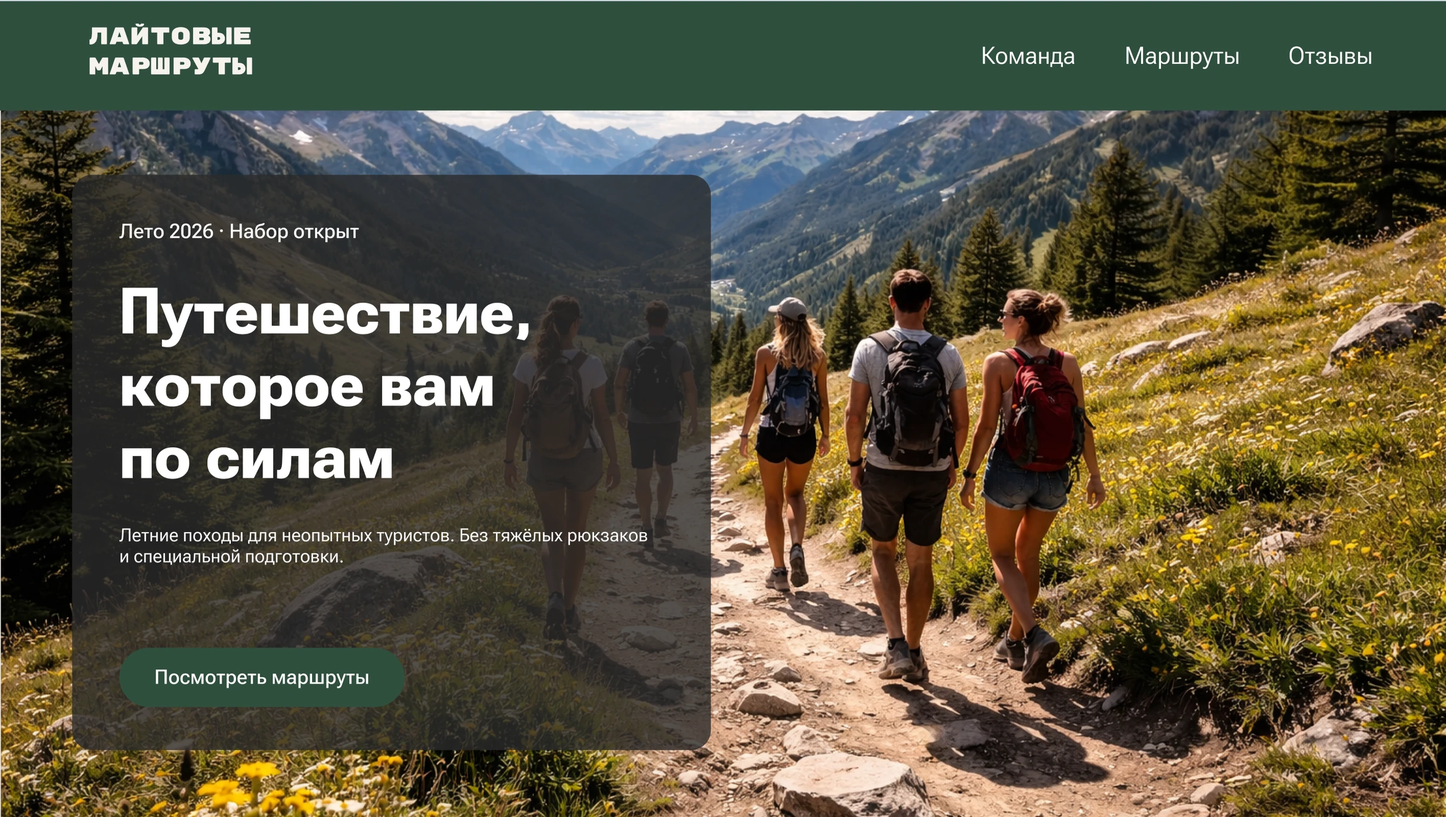
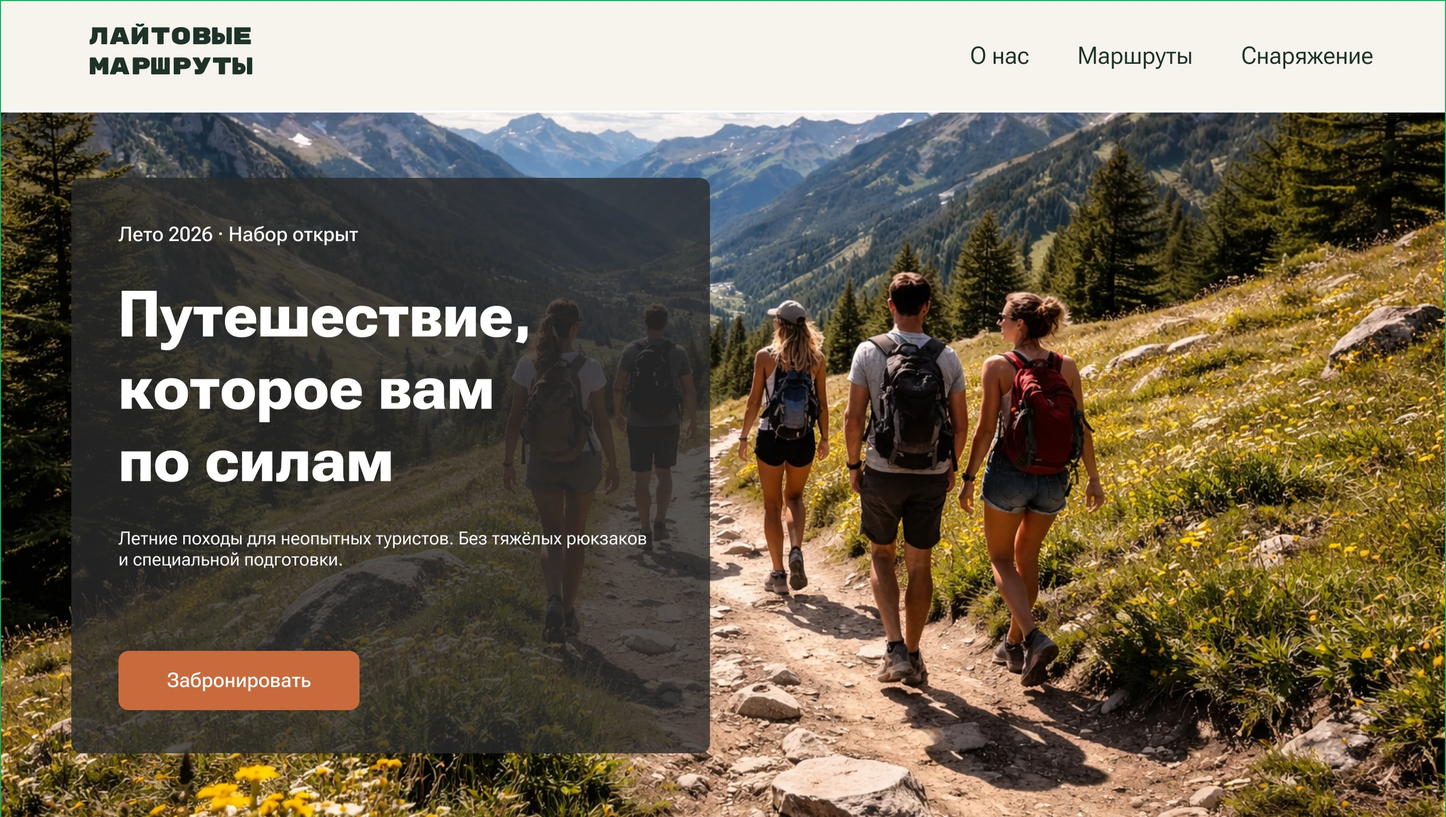
Лайтовые маршруты: изображения из актуального дизайна
Все экраны кейса, обложка и полный макет взяты из фрейма
«Главная страница. новая» (страница «Переделка», секция «Малинина Наталья»);
блок «Решения» и палитра приведены к этому дизайну.

diff --git a/case-routes.html b/case-routes.html
@@ -12,7 +12,7 @@
   <link rel="stylesheet" href="css/case.css">
   <style>
     body.case {
-      --brand: #2F4F3E;
+      --brand: #1E3227;
       --brand-ink: #F6F3EE;
       --brand-accent: #E08A5C;
       --accent: #C96A3D;
@@ -136,11 +136,11 @@
         <div>
           <span class="num-tag">01 · Первый экран</span>
           <h3 class="h-m">«Путешествие, которое вам по силам»</h3>
-          <p class="p">Заголовок сразу снимает главное возражение, подзаголовок уточняет: без тяжёлых рюкзаков и специальной подготовки. Кнопка «Посмотреть маршруты» ведёт к выбору, а не требует сразу бронировать.</p>
+          <p class="p">Заголовок сразу снимает главное возражение, подзаголовок уточняет: без тяжёлых рюкзаков и специальной подготовки.</p>
           <ul class="bullets">
             <li>Обычные люди на лёгкой тропе, а не альпинисты на вершине</li>
             <li>«Лето 2026 · Набор открыт» — мягкая срочность</li>
-            <li>Тёмно-зелёная шапка с якорями: Команда, Маршруты, Отзывы</li>
+            <li>Одна акцентная кнопка — «Забронировать»</li>
           </ul>
         </div>
         <div class="split-media zoom"><img src="img/routes-hero.webp" alt="Первый экран" loading="lazy"></div>
@@ -148,13 +148,31 @@
 
       <div class="split rev">
         <div>
-          <span class="num-tag">02 · Маршруты</span>
+          <span class="num-tag">02 · Почему нас выбирают</span>
+          <h3 class="h-m">Страхи — в подписях к фото</h3>
+          <p class="p">Три живые фотографии с короткими ответами на главные страхи новичка: «Мы идём в удобном темпе», «Если устали — остановимся. Поход — это не соревнование», «Готовим из свежих продуктов».</p>
+        </div>
+        <div class="split-media zoom"><img src="img/routes-why.webp" alt="Блок «Почему нас выбирают»" loading="lazy"></div>
+      </div>
+
+      <div class="split">
+        <div>
+          <span class="num-tag">03 · Преимущества</span>
+          <h3 class="h-m">Конкретика и цифры</h3>
+          <p class="p">Шесть иконок отвечают на практические вопросы: маленькие группы, повар, внимательный гид, помощь с палаткой, вечерние развлечения, снаряжение. Цифры 10+ лет, 500+ участников и 30+ маршрутов работают на доверие.</p>
+        </div>
+        <div class="split-media zoom"><img src="img/routes-features.webp" alt="Преимущества и цифры" loading="lazy"></div>
+      </div>
+
+      <div class="split rev">
+        <div>
+          <span class="num-tag">04 · Наши маршруты</span>
           <h3 class="h-m">Маршрут понятен за 3 секунды</h3>
-          <p class="p">Каталог стоит сразу после первого экрана — это главное, ради чего приходят на сайт. В карточке: фото, место, километры, дни, даты, рейтинг и сложность.</p>
+          <p class="p">В карточке всё, что нужно для решения: название, место, километры, дни, даты, сложность, рейтинг и цена.</p>
           <ul class="bullets">
-            <li>Метки формата: «Семейный», «Индивидуальный», «Групповой»</li>
-            <li>Сложность иконками: лёгкий, средний, сложный</li>
-            <li>При наведении карточка выделяется зелёной обводкой</li>
+            <li>Метка «Семейный» для второго сегмента аудитории</li>
+            <li>Сложность иконками: лёгкий или сложный — понятно без чтения</li>
+            <li>Цена и кнопка «Подробнее» внизу карточки</li>
           </ul>
         </div>
         <div class="split-media zoom"><img src="img/routes-cards.webp" alt="Карточки маршрутов" loading="lazy"></div>
@@ -162,36 +180,18 @@
 
       <div class="split">
         <div>
-          <span class="num-tag">03 · Преимущества</span>
-          <h3 class="h-m">Страхи превращены в преимущества</h3>
-          <p class="p">Шесть карточек с иконками отвечают на вопросы новичка: маленькие группы, повар на маршруте, внимательный гид, помощь с палаткой, вечерние развлечения и снаряжение.</p>
-        </div>
-        <div class="split-media zoom"><img src="img/routes-features.webp" alt="Блок «Преимущества»" loading="lazy"></div>
-      </div>
-
-      <div class="split rev">
-        <div>
-          <span class="num-tag">04 · Атмосфера</span>
-          <h3 class="h-m">Как это будет на самом деле</h3>
-          <p class="p">Галерея показывает «изнанку» похода: завтрак на природе, лагерь, рассвет из палатки. Ниже — три зелёные карточки, которые ещё раз отвечают на страхи: «Если устали — остановимся. Поход — это не соревнование».</p>
-        </div>
-        <div class="split-media zoom"><img src="img/routes-gallery.webp" alt="Галерея и карточки о темпе похода" loading="lazy"></div>
-      </div>
-
-      <div class="split">
-        <div>
           <span class="num-tag">05 · Доверие</span>
-          <h3 class="h-m">Команда и цифры</h3>
-          <p class="p">Новичку важно знать, кто будет рядом. Блок «Команда» знакомит с гидами и поваром, а цифры 10+ лет, 500+ участников и 30+ маршрутов подтверждают опыт.</p>
+          <h3 class="h-m">Отзывы и живая галерея</h3>
+          <p class="p">Отзывы с фото, названием маршрута и датой. Галерея показывает «изнанку» похода: завтрак на природе, лагерь, рассвет из палатки — то, ради чего едут.</p>
         </div>
-        <div class="split-media zoom"><img src="img/routes-team.webp" alt="Команда и цифры" loading="lazy"></div>
+        <div class="split-media zoom"><img src="img/routes-reviews.webp" alt="Отзывы участников и галерея" loading="lazy"></div>
       </div>
 
       <div class="split rev">
         <div>
           <span class="num-tag">06 · Конверсия</span>
-          <h3 class="h-m">Отзывы и мягкий выход для сомневающихся</h3>
-          <p class="p">Отзывы с фото, маршрутом и датой, а для тех, кто ещё не готов бронировать, — форма из трёх полей: «Напишите нам — расскажем про маршруты и ответим на все вопросы».</p>
+          <h3 class="h-m">Короткая форма для тех, кто сомневается</h3>
+          <p class="p">Не все готовы бронировать сразу. Для них — форма из трёх полей: «Напишите нам — расскажем про маршруты и ответим на все вопросы».</p>
         </div>
         <div class="split-media zoom"><img src="img/routes-contact.webp" alt="Форма обратной связи" loading="lazy"></div>
       </div>
@@ -202,10 +202,10 @@
       <p class="eyebrow">06 — Визуальный язык</p>
       <h2 class="h-l">Тёплая палитра горного похода</h2>
       <div class="palette-strips" style="--n:5">
-        <div class="strip"><div class="strip-color" style="background:#F0ECE6"></div><div class="strip-info"><p class="strip-name">Утренний туман</p><p class="strip-hex">#F0ECE6</p><p class="strip-role">Фон</p></div></div>
-        <div class="strip"><div class="strip-color" style="background:#D8C3A5"></div><div class="strip-info"><p class="strip-name">Песок тропы</p><p class="strip-hex">#D8C3A5</p><p class="strip-role">Иконки преимуществ</p></div></div>
-        <div class="strip"><div class="strip-color" style="background:#C96A3D"></div><div class="strip-info"><p class="strip-name">Костёр</p><p class="strip-hex">#C96A3D</p><p class="strip-role">Рейтинг, сложность, акценты</p></div></div>
-        <div class="strip"><div class="strip-color" style="background:#2F4F3E"></div><div class="strip-info"><p class="strip-name">Хвойный лес</p><p class="strip-hex">#2F4F3E</p><p class="strip-role">Шапка, кнопки, футер</p></div></div>
+        <div class="strip"><div class="strip-color" style="background:#F6F3EE"></div><div class="strip-info"><p class="strip-name">Утренний туман</p><p class="strip-hex">#F6F3EE</p><p class="strip-role">Фон</p></div></div>
+        <div class="strip"><div class="strip-color" style="background:#D8C3A5"></div><div class="strip-info"><p class="strip-name">Песок тропы</p><p class="strip-hex">#D8C3A5</p><p class="strip-role">Акцент фона, иконки</p></div></div>
+        <div class="strip"><div class="strip-color" style="background:#C96A3D"></div><div class="strip-info"><p class="strip-name">Костёр</p><p class="strip-hex">#C96A3D</p><p class="strip-role">Главные кнопки</p></div></div>
+        <div class="strip"><div class="strip-color" style="background:#1E3227"></div><div class="strip-info"><p class="strip-name">Хвойный лес</p><p class="strip-hex">#1E3227</p><p class="strip-role">Заголовки</p></div></div>
         <div class="strip"><div class="strip-color" style="background:#2A2A2A"></div><div class="strip-info"><p class="strip-name">Скала</p><p class="strip-hex">#2A2A2A</p><p class="strip-role">Основной текст</p></div></div>
       </div>
       <div class="type-grid">
@@ -230,8 +230,8 @@
       <h2 class="h-l" style="max-width:18ch">Сайт, который ведёт от сомнения к брони</h2>
       <div class="stats" style="--n:3">
         <div class="stat"><b>7</b><span>смысловых блоков, выстроенных по пути пользователя: эмоция → страхи → выбор → доверие → действие</span></div>
-        <div class="stat"><b>6</b><span>возражений новичков закрыты в блоке «Преимущества»</span></div>
-        <div class="stat"><b>2</b><span>точки конверсии: переход к маршруту и форма вопроса</span></div>
+        <div class="stat"><b>6</b><span>возражений новичков закрыты в блоке преимуществ</span></div>
+        <div class="stat"><b>2</b><span>точки конверсии: бронирование маршрута и форма вопроса</span></div>
       </div>
     </section>
 
